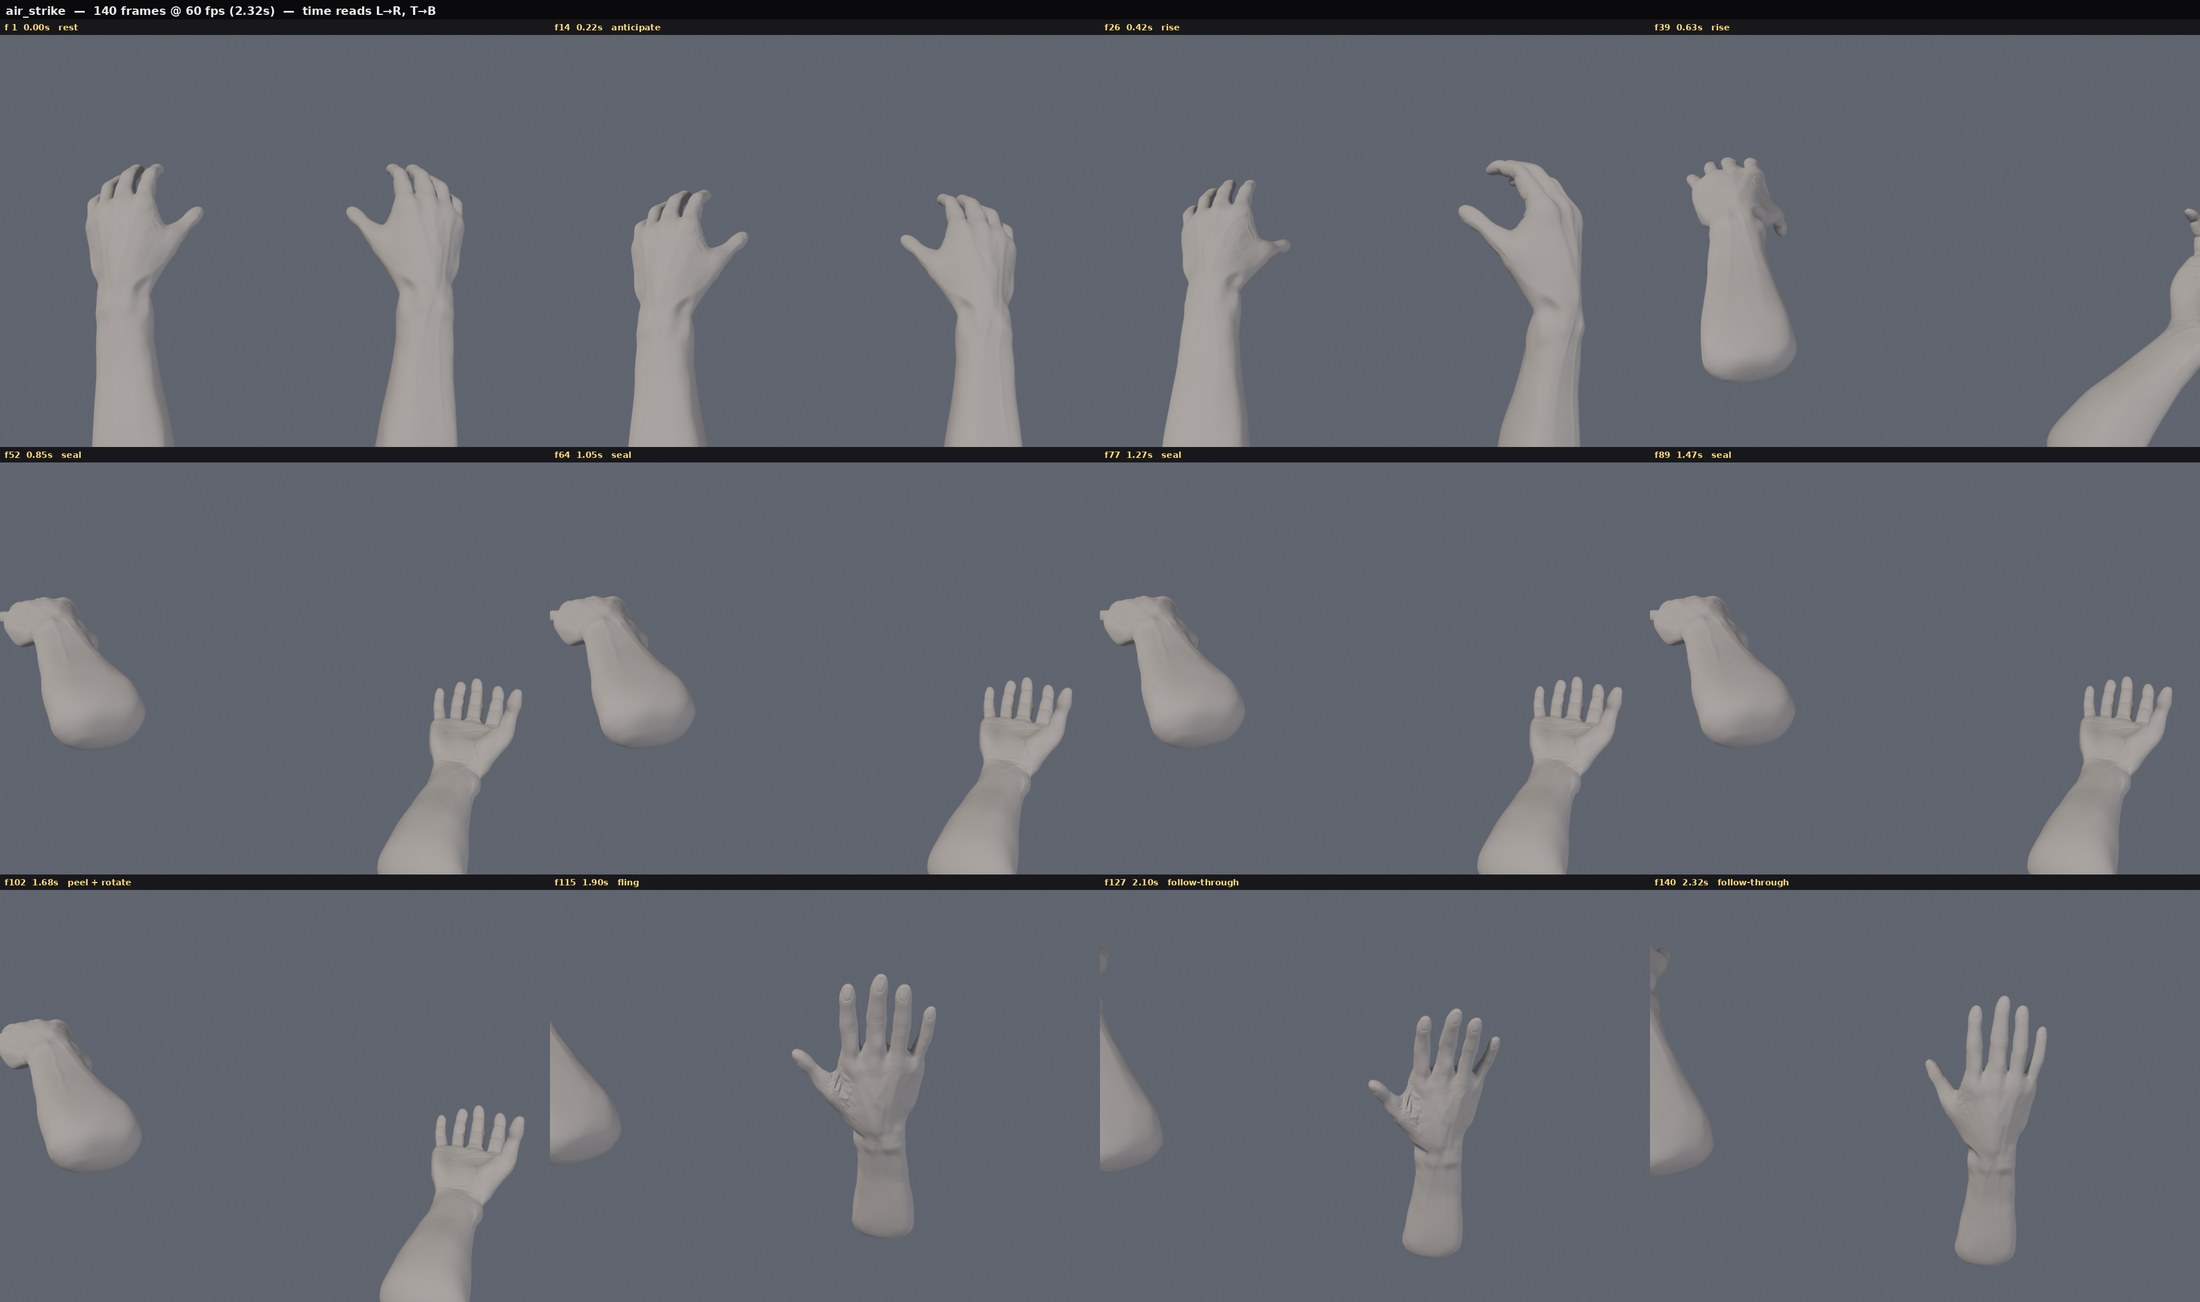
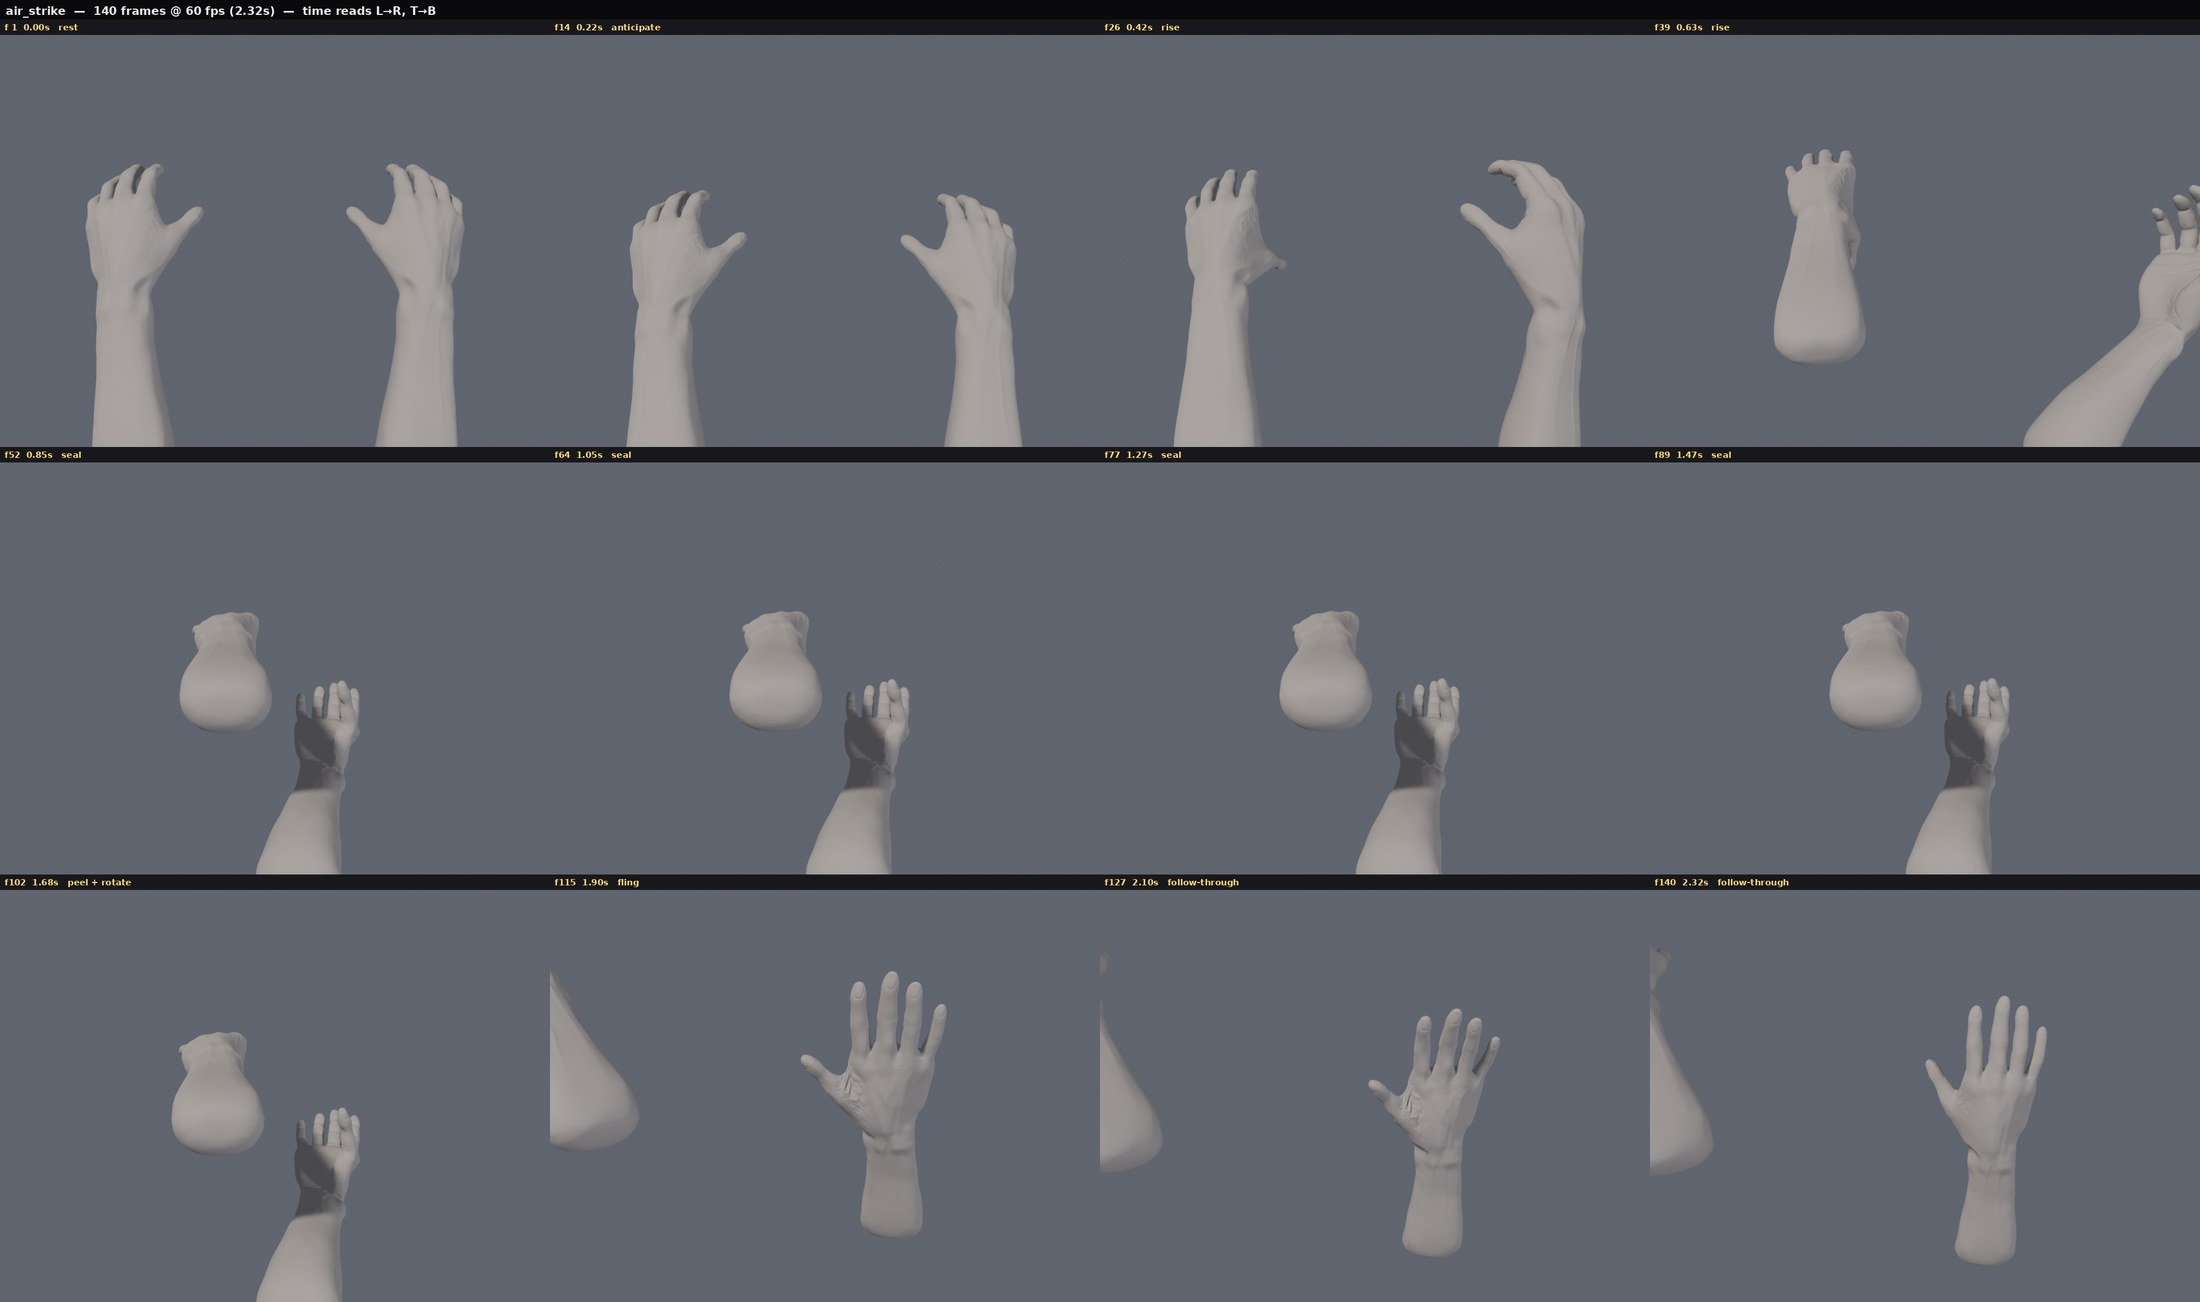
Air + fire polish: tucked-thumb knife seal, supporting off-hand; gotchas 26-31
Air: dedicated 'knife_seal' pose (flat hand, thumb TUCKED), both seal
hands pulled onto the center column with a clear vertical orb gap
between the top palm-down and bottom palm-up hand. Reads as two hands
framing the manifestation gap instead of one chopping hand. Residual:
the top hand's forearm stub still reads egg-ish toward camera (needs a
camera cheat or a real elbow — logged).

Fire: the idle left hand sinks to a low loose supporting curl at the
frame edge during the cast instead of hanging dead center and stealing
focus from the cup-flicker-fling.

Codex: six new gotchas from this session — chirality verification,
mirror-scale shear, world-space key solving, fist-void probing, ChildOf
release mechanics, the forearm-stub egg.

diff --git a/tools/animate_casts.py b/tools/animate_casts.py
@@ -66,6 +66,7 @@ POSES = {
     'blade': {'f': [8, 10, 6],    'thumb': [25, 30, 15]},   # flat knife hand
     'open':  {'f': [4, 8, 4],     'thumb': [10, 15, 8]},    # presenting palm
     'fling': {'f': [-12, -8, -2], 'thumb': [-12, -5, 0]},   # splayed release
+    'knife_seal': {'f': [4, 6, 4], 'thumb': [55, 35, 15]},  # flat hand, thumb TUCKED
 }
 
 HAND_SCALE = 3.118
@@ -302,9 +303,9 @@ ANIMS['air_strike'] = {
         (1,  (2.05, 0.0, -0.7),  (14, 9, 172),    'idle'),
         (10, (2.30, -0.4, -1.0), (22, 9, 172),    'idle'),   # anticipation dip
         (20, (2.30, -0.5, -0.4), (-35, 5, 95),    'cup'),    # supinating scoop guide
-        (30, (2.25, -0.6, 0.15), (-76, 0, 28),    'blade'),  # sandwich bottom, palm up
-        (50, (2.25, -0.6, 0.20), (-76, 0, 28),    'blade'),  # hold (orb beat)
-        (56, (2.45, -0.8, -0.05), (-70, 0, 28),   'blade'),  # slight pull anticipation
+        (30, (0.45, -0.6, 0.10), (-76, 0, 12),    'knife_seal'),  # sandwich bottom, palm up, centered
+        (50, (0.45, -0.6, 0.15), (-76, 0, 12),    'knife_seal'),  # hold (orb beat)
+        (56, (0.70, -0.8, -0.10), (-70, 0, 12),   'knife_seal'),  # slight pull anticipation
         (59, (1.60, 1.2, 0.2),   (-45, 0, -110),  'open'),   # pronating mid-swing
         (64, (1.05, 4.4, -0.5),  (-32, 0, -180),  'fling'),  # release downrange
         (70, (1.15, 3.9, -0.8),  (-27, 0, -180),  'fling'),  # recoil
@@ -313,10 +314,10 @@ ANIMS['air_strike'] = {
     'left': [
         (1,  (-2.05, 0.0, -0.7), (14, -9, -172),  'idle'),
         (10, (-2.30, -0.4, -1.0), (22, -9, -172), 'idle'),
-        (20, (-2.40, -0.5, 0.8), (45, -4, -192),  'blade'),  # pitching forward on the way up
-        (30, (-2.30, -0.6, 2.55), (70, 0, -212),  'blade'),  # sandwich top, palm down
-        (50, (-2.30, -0.6, 2.60), (70, 0, -212),  'blade'),  # hold
-        (58, (-3.00, -0.6, 2.7), (58, 0, -225),   'blade'),  # peels back-outboard
+        (20, (-1.80, -0.5, 1.0), (45, -4, -188),  'knife_seal'),  # pitching forward on the way up
+        (30, (-0.55, -0.6, 2.80), (78, 0, -184),  'knife_seal'),  # sandwich top, palm down, gap above
+        (50, (-0.55, -0.6, 2.85), (78, 0, -184),  'knife_seal'),  # hold
+        (58, (-2.20, -0.6, 3.0), (58, 0, -215),   'knife_seal'),  # peels back-outboard
         (66, (-3.60, -0.3, 2.5), (40, 0, -228),   'open'),   # clear of the throw
         (78, (-3.70, -0.1, 2.3), (35, 0, -224),   'open'),   # settle low-outboard
     ],
@@ -378,8 +379,10 @@ ANIMS['fire_strike'] = {
     ],
     'left': [
         (1,  (-2.05, 0.0, -0.7),  (14, -9, -172), 'idle'),
-        (27, (-2.10, -0.05, -0.75), (15, -9, -171), 'idle'), # breathing sway
-        (54, (-2.05, 0.0, -0.7),  (14, -9, -172), 'idle'),
+        (11, (-2.45, 0.3, -1.9),  (28, -9, -172), 'cup'),   # sinks low, loose support curl
+        (16, (-2.55, 0.4, -2.2),  (30, -9, -172), 'cup'),   # mostly out of frame
+        (40, (-2.55, 0.4, -2.2),  (30, -9, -172), 'cup'),   # stays low through the fling
+        (54, (-2.45, 0.3, -1.9),  (28, -9, -172), 'cup'),
     ],
     'phases': [(1, 'rest'), (7, 'present'), (17, 'flicker beat'),
                (35, 'anticipate'), (41, 'fling'), (48, 'follow-through')],

diff --git a/codex/gotchas.md b/codex/gotchas.md
@@ -121,3 +121,45 @@ infrastructure.
 ### 25. Rename bones AND their vertex groups together
 The armature modifier binds bone→vertex-group by NAME. Renaming a bone without
 renaming its vertex group breaks the bind. Rename both in lockstep.
+
+### 26. FP hands: thumbs must land INBOARD — verify chirality by render
+The yaw-flipped FP staging put both thumbs OUTBOARD, i.e. each side showed the
+WRONG hand (Khaled caught it by thumb position; the old codex note claiming
+"thumbs outboard is correct" was wrong). The fix is an in-place chirality flip
+applied uniformly at application time: keep every authored location, negate
+euler Y and Z, toggle the scale.x mirror (screen-right = mirrored mesh now).
+Pose-bone X-curls are mirror-invariant and pass through. Never trust chirality
+reasoning — probe thumb-tip world X vs hand center and LOOK at the render.
+
+### 27. Anisotropic mirror scale SHEARS rotated children
+A prop parented under an armature scaled (−S, S, S) inherits the mirror. Any
+child rotation that is not axis-aligned gets sheared (world = T·R·S_parent ·
+child). Keep prop rotations at 90° multiples (e.g. sword Ry(−90)), or bake the
+roll into the mesh data instead of the object transform.
+
+### 28. World-space key authoring beats euler guessing for props
+For the sword set, keys are authored as (fist position, forearm dir, blade dir)
+and solved to origin+euler at build time (tools/animate_sword.py: solve_key).
+Blade dir gets projected ⊥ forearm (rigid hammer grip: blade is ALWAYS ⊥ the
+metacarpals — a thrust can never go point-in-line on this rig). Unwrap eulers
+key-to-key (mod-360 + the (x+180, 180−y, z+180) equivalent triple) or
+interpolation does a 300° flip instead of a wrist roll.
+
+### 29. Seat props in the PROBED fist void, not where you think the palm is
+The curled-'grip' fist's enclosed void is at hand-local (0, −0.22, 1.37) —
+probed via posed bone positions (tools/probe_fist_void.py). Three blind
+guesses missed it; one probe hit it.
+
+### 30. Throwable release = keyed ChildOf influence + scale swap
+Real let-go: prop rides ChildOf(hand) with influence keyed 1→0 (CONSTANT) at
+the release frame, then flies on its own world-space LINEAR keys. Two traps:
+(a) key the scale across the switch — under the constraint the hand's 3.118
+multiplies in, in free flight it doesn't (prop shrinks 3× otherwise);
+(b) compute the world start analytically from the release key's loc/euler
+(T·R·S), no depsgraph needed.
+
+### 31. The forearm-stub egg — avoid stub-at-camera poses
+Any pose whose forearm points down-forward aims the CUT END of the forearm
+stub at the camera; it renders as a big smooth egg (thrust chambers, riposte
+poses, air-seal top hand). Keep forearm dirs near-horizontal or entering from
+a frame edge so the stub stays edge-on or cropped.
